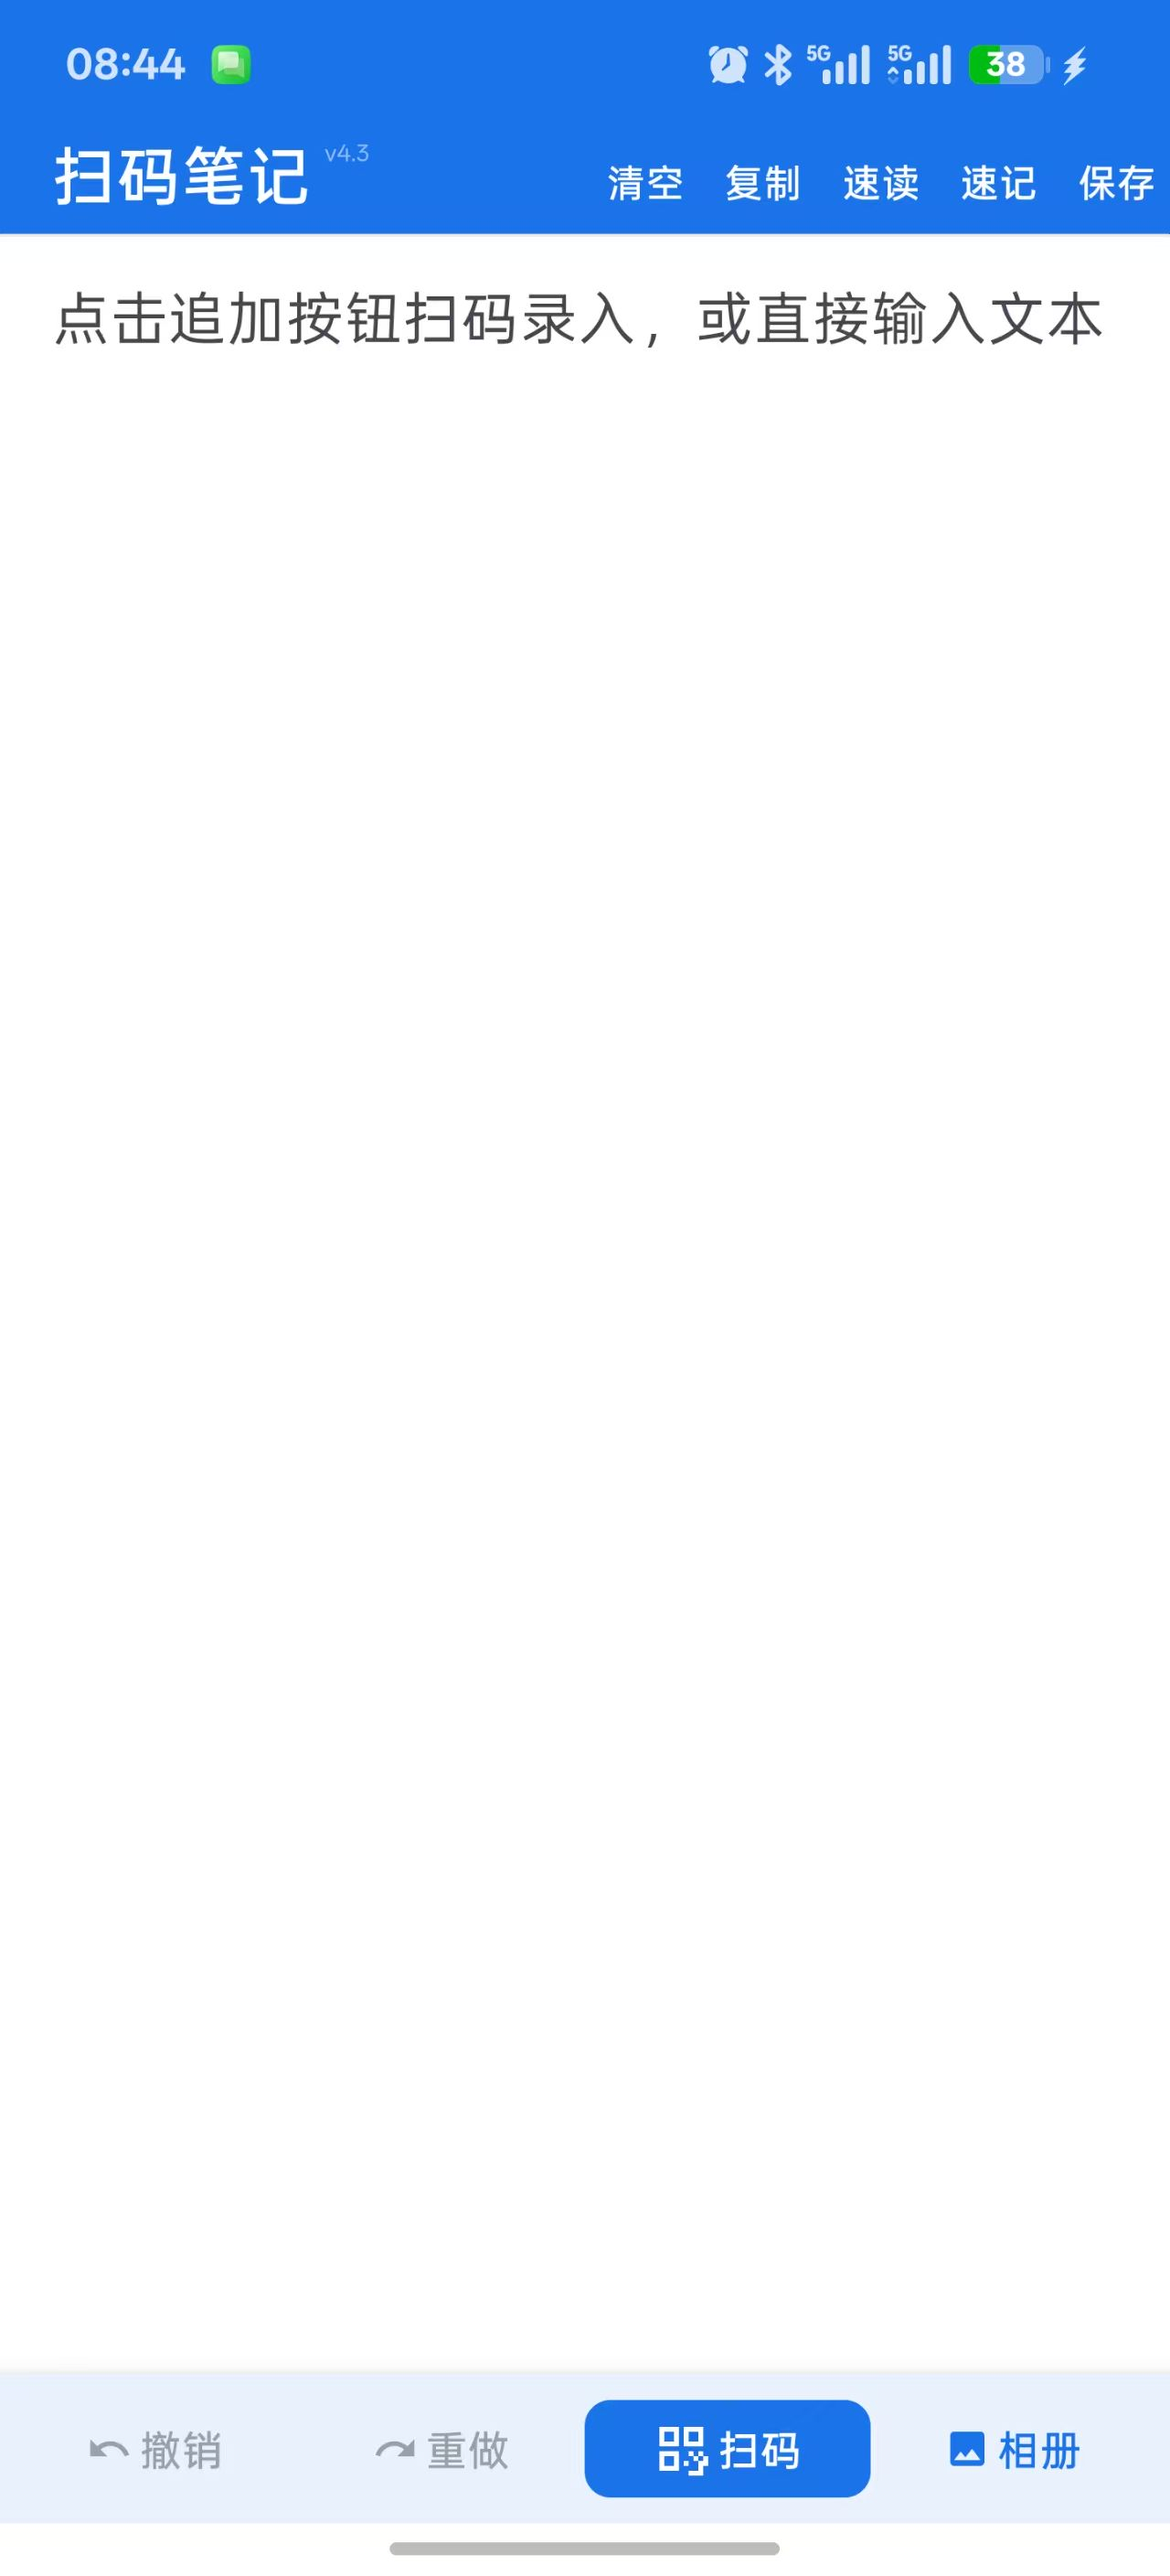
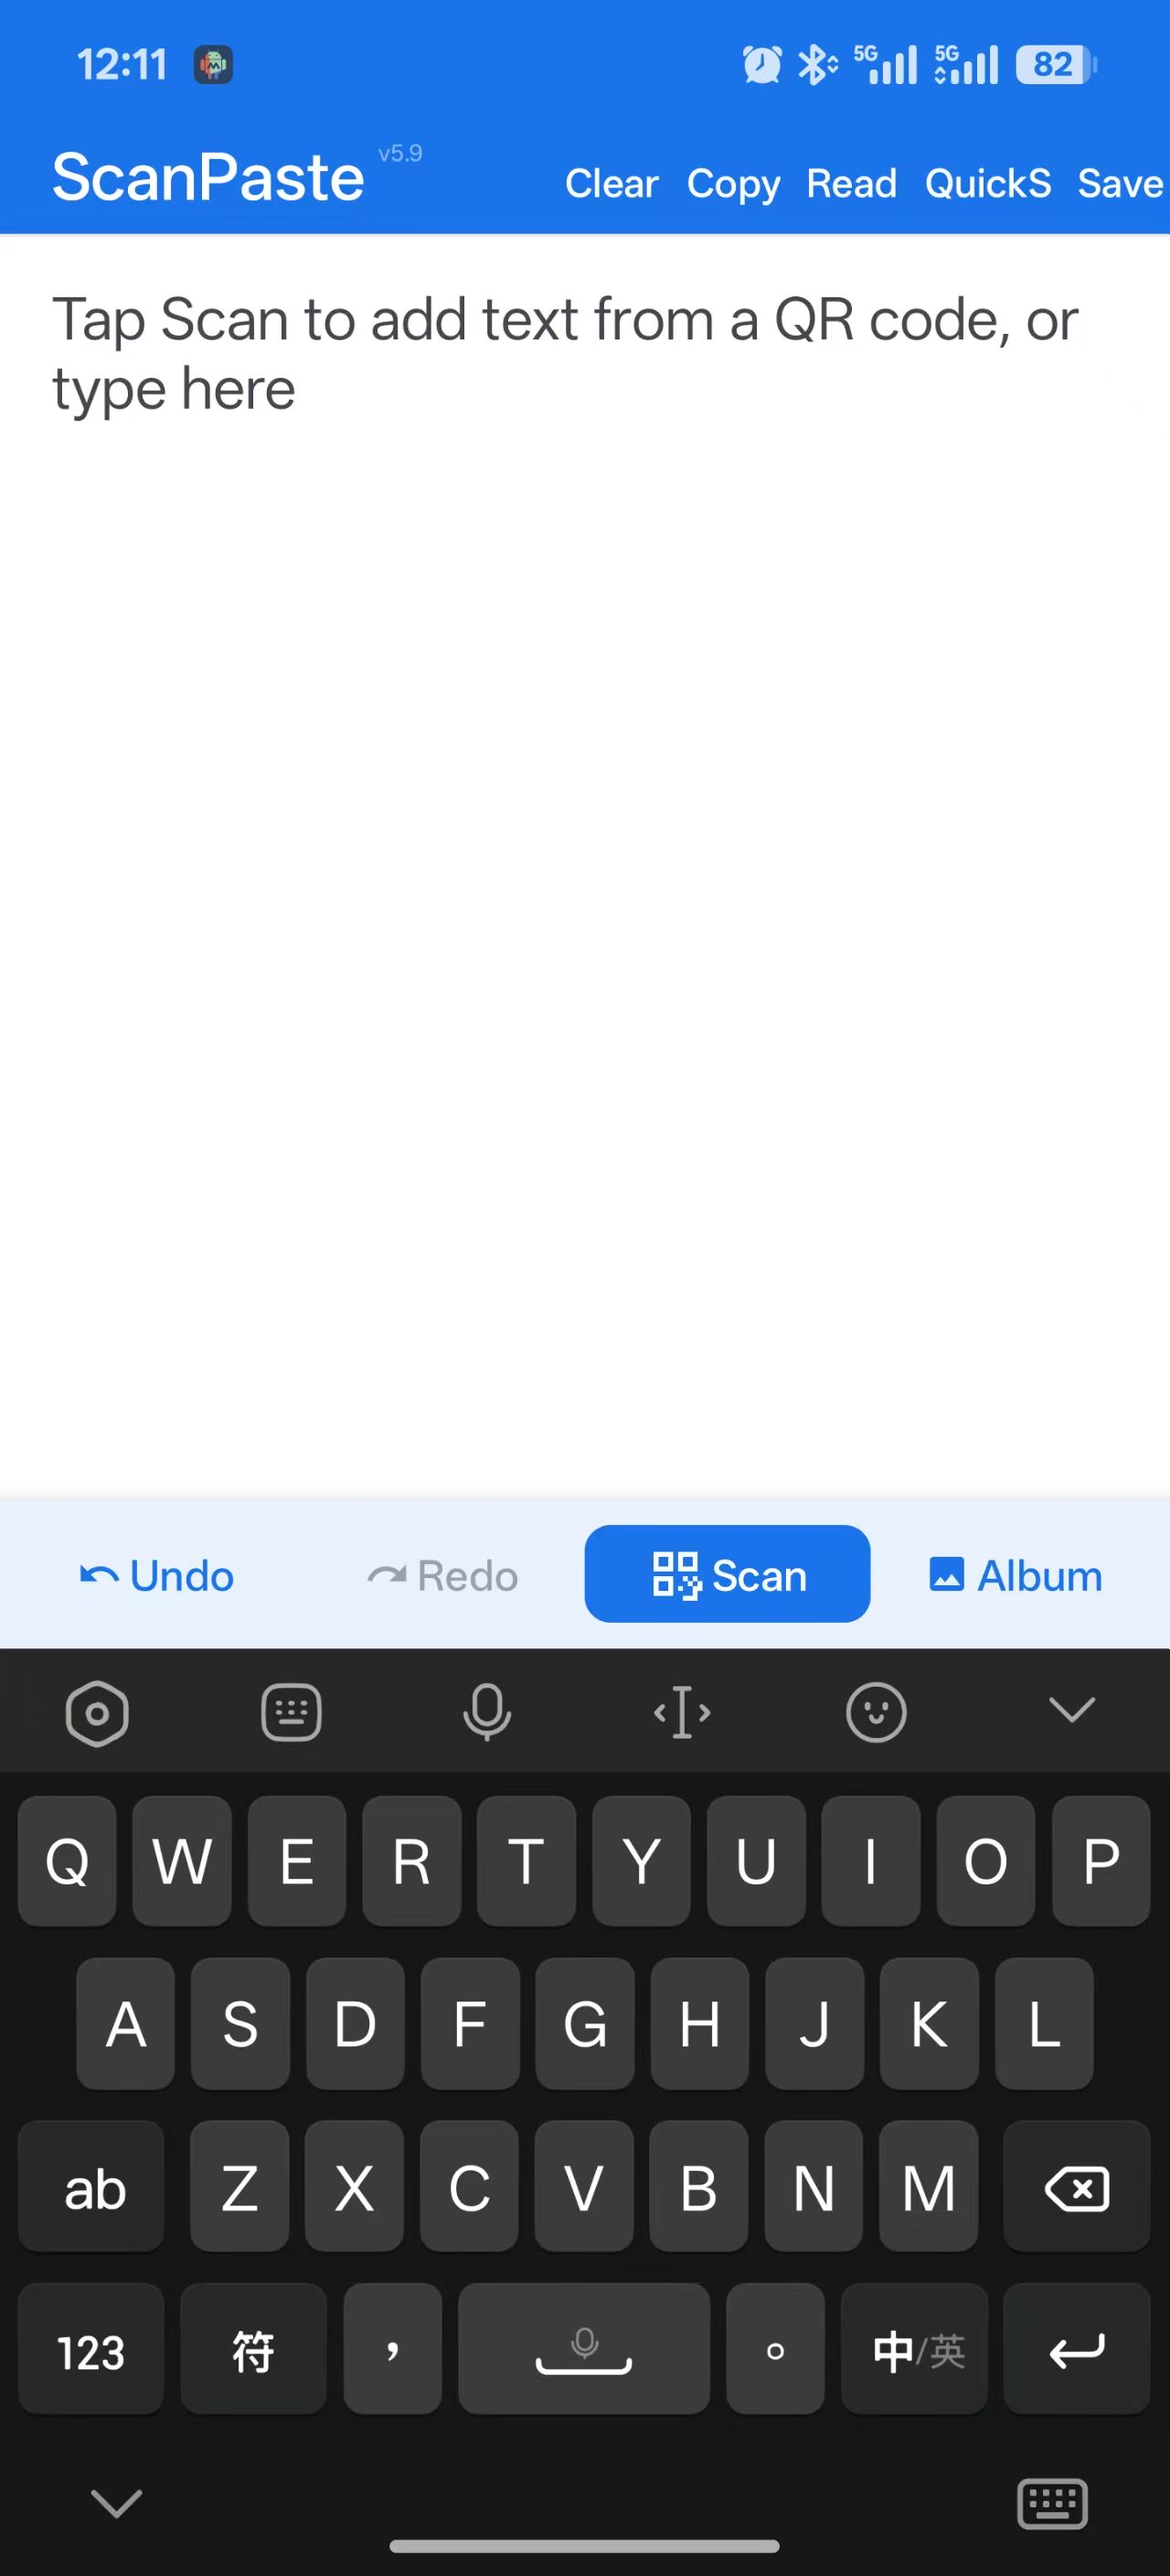
docs: refresh phone screenshots and document the widget
- replace 1_main/2_save captures
- add 3_widget showing the home-screen widget
- fix alt text and captions in both READMEs

diff --git a/README.md b/README.md
@@ -47,11 +47,12 @@
 
 <p align="center">
   <img src="fastlane/metadata/android/en-US/images/phoneScreenshots/1_main.jpg" width="240" alt="Main screen">
-  <img src="fastlane/metadata/android/en-US/images/phoneScreenshots/2_save.jpg" width="240" alt="Save dialog">
+  <img src="fastlane/metadata/android/en-US/images/phoneScreenshots/2_save.jpg" width="240" alt="Overwrite confirmation">
+  <img src="fastlane/metadata/android/en-US/images/phoneScreenshots/3_widget.jpg" width="240" alt="Home-screen widget">
 </p>
 
-Left: the editor and the bottom action bar; right: choosing a file name and
-extension when saving.
+Left: the editor and the bottom action bar; middle: confirming an overwrite of
+the quick note; right: the home-screen widget showing the last saved note.
 
 ## Why this exists
 

diff --git a/README-cn.md b/README-cn.md
@@ -31,10 +31,11 @@
 
 <p align="center">
   <img src="fastlane/metadata/android/en-US/images/phoneScreenshots/1_main.jpg" width="240" alt="主界面">
-  <img src="fastlane/metadata/android/en-US/images/phoneScreenshots/2_save.jpg" width="240" alt="保存对话框">
+  <img src="fastlane/metadata/android/en-US/images/phoneScreenshots/2_save.jpg" width="240" alt="覆盖速记确认">
+  <img src="fastlane/metadata/android/en-US/images/phoneScreenshots/3_widget.jpg" width="240" alt="桌面小部件">
 </p>
 
-左：编辑区与底部操作栏；右：保存时选择文件名与扩展名。
+左：编辑区与底部操作栏；中：覆盖已有速记的确认框；右：桌面小部件显示上次保存的速记。
 
 ## 为什么用它
 
